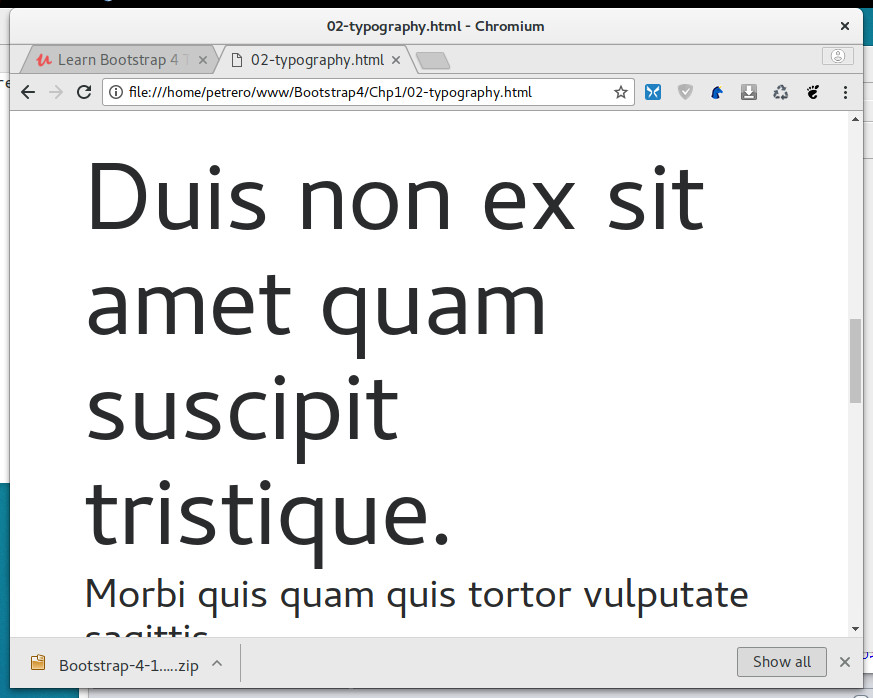
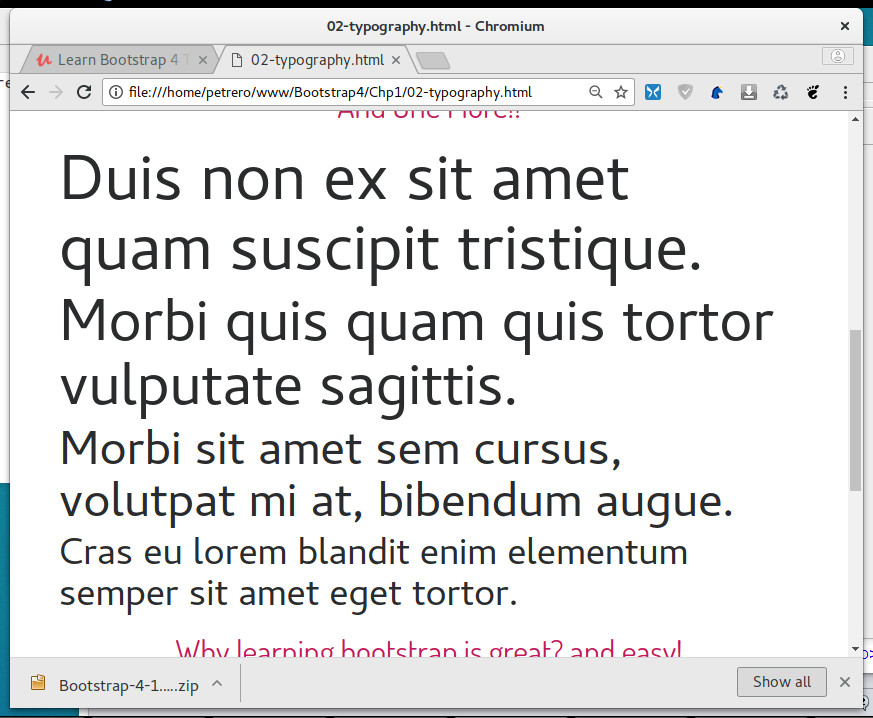
Display classes go from 1 to 4

diff --git a/Chp1/02-typography.html b/Chp1/02-typography.html
@@ -42,9 +42,9 @@
 
       <h2 class="lecture-title">And One More!!</h2>
       <h1 class="display-1">Duis non ex sit amet quam suscipit tristique.</h1>
-      <h1>Morbi quis quam quis tortor vulputate sagittis.</h1>
-      <h1>Morbi sit amet sem cursus, volutpat mi at, bibendum augue.</h1>
-      <h1>Cras eu lorem blandit enim elementum semper sit amet eget tortor.</h1>
+      <h1 class="display-2">Morbi quis quam quis tortor vulputate sagittis.</h1>
+      <h1 class="display-3">Morbi sit amet sem cursus, volutpat mi at, bibendum augue.</h1>
+      <h1 class="display-4">Cras eu lorem blandit enim elementum semper sit amet eget tortor.</h1>
 
 
       <h2 class="lecture-title">Why learning bootstrap is great? and easy! </h2>
